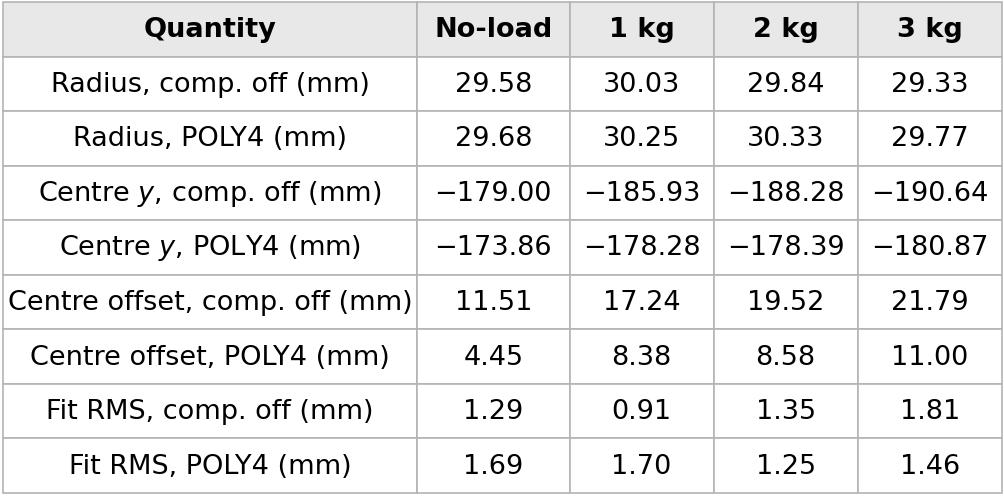
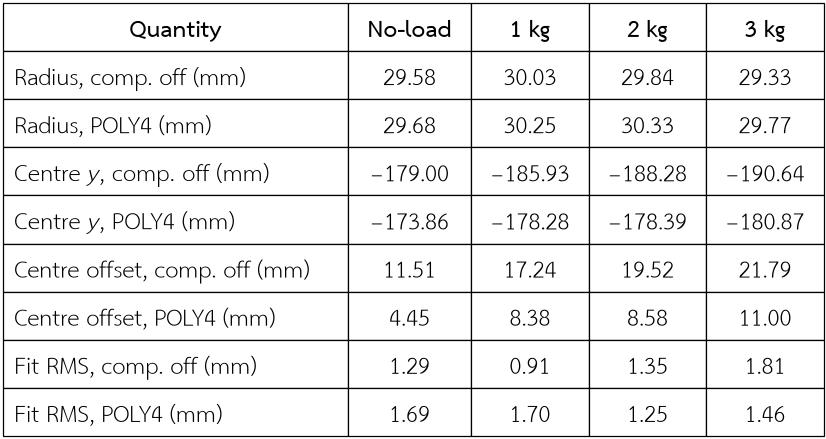
Tables: journal look - TH Sarabun New, thin black grid on every cell, bold header, no shading, row labels left
Matches the tables in the journal's own template and its published TCI1 articles. Greek symbols fall back to STIX Sans since Sarabun carries no Greek.

diff --git a/paper/render-tables.py b/paper/render-tables.py
@@ -20,21 +20,26 @@ import matplotlib
 matplotlib.use('Agg')
 import matplotlib.pyplot as plt
 
-# DejaVu Sans has no Thai glyphs, and table1 still carries Thai placeholders.
-matplotlib.rcParams['font.sans-serif'] = ['DejaVu Sans', 'Leelawadee UI',
-                                          'Tahoma', 'Arial']
+# Journal look (template-example.pdf and the published TCI1 papers): TH Sarabun New,
+# thin black grid on every cell, bold header row, no shading, first column left,
+# numbers centred.  Maths symbols fall back to DejaVu because Sarabun has no Greek.
+matplotlib.rcParams.update({
+    'font.family': 'TH Sarabun New', 'mathtext.fontset': 'custom',
+    'mathtext.rm': 'TH Sarabun New', 'mathtext.it': 'TH Sarabun New:italic',
+    'mathtext.bf': 'TH Sarabun New:bold', 'mathtext.fallback': 'stixsans',
+})
 
 _DIR = os.path.dirname(os.path.abspath(__file__))
 SRC = os.path.join(_DIR, 'tables', 'src')
 EXPORT = os.path.join(_DIR, 'tables', 'export')
 
-HEADER_BG = '#E8E8E8'
-GRID = '#B4B4B4'
-FONT_PT = 13
-ROW_PT = 34            # row height in points
-PAD_PT = 18            # horizontal padding per cell
-CHAR_PT = 7.6          # approximate advance width per character at FONT_PT
-BOLD_K = 1.10          # the header row is bold, so it runs wider
+GRID = 'black'
+GRID_PT = 0.6
+FONT_PT = 16           # Sarabun runs small: 16 pt here reads like 12 pt in the column
+ROW_PT = 30            # row height in points
+PAD_PT = 14            # horizontal padding per cell
+CHAR_PT = 6.4          # approximate advance width per character at FONT_PT
+BOLD_K = 1.08          # the header row is bold, so it runs wider
 
 
 def parse(path):
@@ -81,15 +86,16 @@ def render(name):
     tbl.auto_set_font_size(False)
     tbl.set_fontsize(FONT_PT)
 
-    for (row, _col), cell in tbl.get_celld().items():
+    for (row, col), cell in tbl.get_celld().items():
         cell.set_edgecolor(GRID)
-        cell.set_linewidth(0.8)
+        cell.set_linewidth(GRID_PT)
         cell.set_height(1.0 / len(rows))
+        cell.set_facecolor('white')
         if row == 0:
-            cell.set_facecolor(HEADER_BG)
             cell.set_text_props(fontweight='bold')
-        else:
-            cell.set_facecolor('white')
+        elif col == 0:                              # row labels read left-aligned
+            cell.get_text().set_ha('left')
+            cell.PAD = PAD_PT / 2 / widths_pt[0]
 
     # A source file carrying the line `<!-- MOCK -->` holds placeholder numbers:
     # stamp the picture so it can never be mistaken for a measurement.
